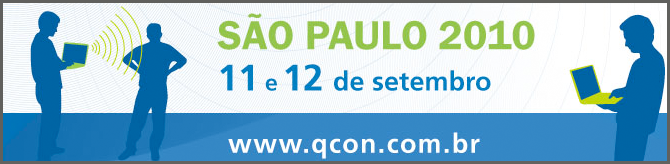
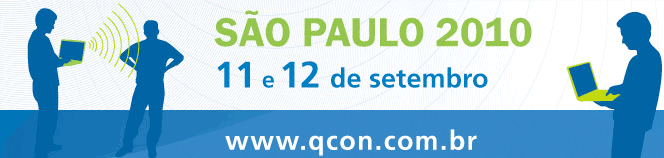
layout

diff --git a/public/stylesheets/style.css b/public/stylesheets/style.css
@@ -435,8 +435,8 @@ a:visited {
 }
 
 #banner{
-	width: 670px;
-	height: 164px;
+	width: 664px;
+	height: 158px;
 	background-color: #4A4A47;
 	margin-bottom: 10px;
 }
@@ -463,7 +463,7 @@ a:visited {
 	font-weight: bold;
 	margin-bottom: 10px;
 }
-
+``
 .twit{
 	font-size: 11px;
 }

diff --git a/app/controllers/eventos_controller.rb b/app/controllers/eventos_controller.rb
@@ -15,14 +15,14 @@ class EventosController < ApplicationController
     
     # implementacao as pressas pra aproveitar o oxenterails - refactor me , pls
     @images = []
-    Twitter::Search.new('oxenterails').page(1).per_page(88).each do |r| 
-      @images << r.profile_image_url
-    end
+    # Twitter::Search.new('oxenterails').page(1).per_page(88).each do |r| 
+    #   @images << r.profile_image_url
+    # end
     
     @ultimos_twits = []
-    Twitter::Search.new('oxenterails').page(1).per_page(3).each do |r| 
-      @ultimos_twits << r
-    end
+    # Twitter::Search.new('oxenterails').page(1).per_page(3).each do |r| 
+    #   @ultimos_twits << r
+    # end
     
          
   end

diff --git a/app/controllers/application_controller.rb b/app/controllers/application_controller.rb
@@ -79,9 +79,9 @@ class ApplicationController < ActionController::Base
     @twits = []
     
     eventos.each do |e|
-      Twitter::Search.new(e.twitter_hash).page(1).per_page(1).each do |r| 
-        @twits << r
-      end
+      # Twitter::Search.new(e.twitter_hash).page(1).per_page(1).each do |r| 
+      #   @twits << r
+      # end
     end
     @twits    
   end
